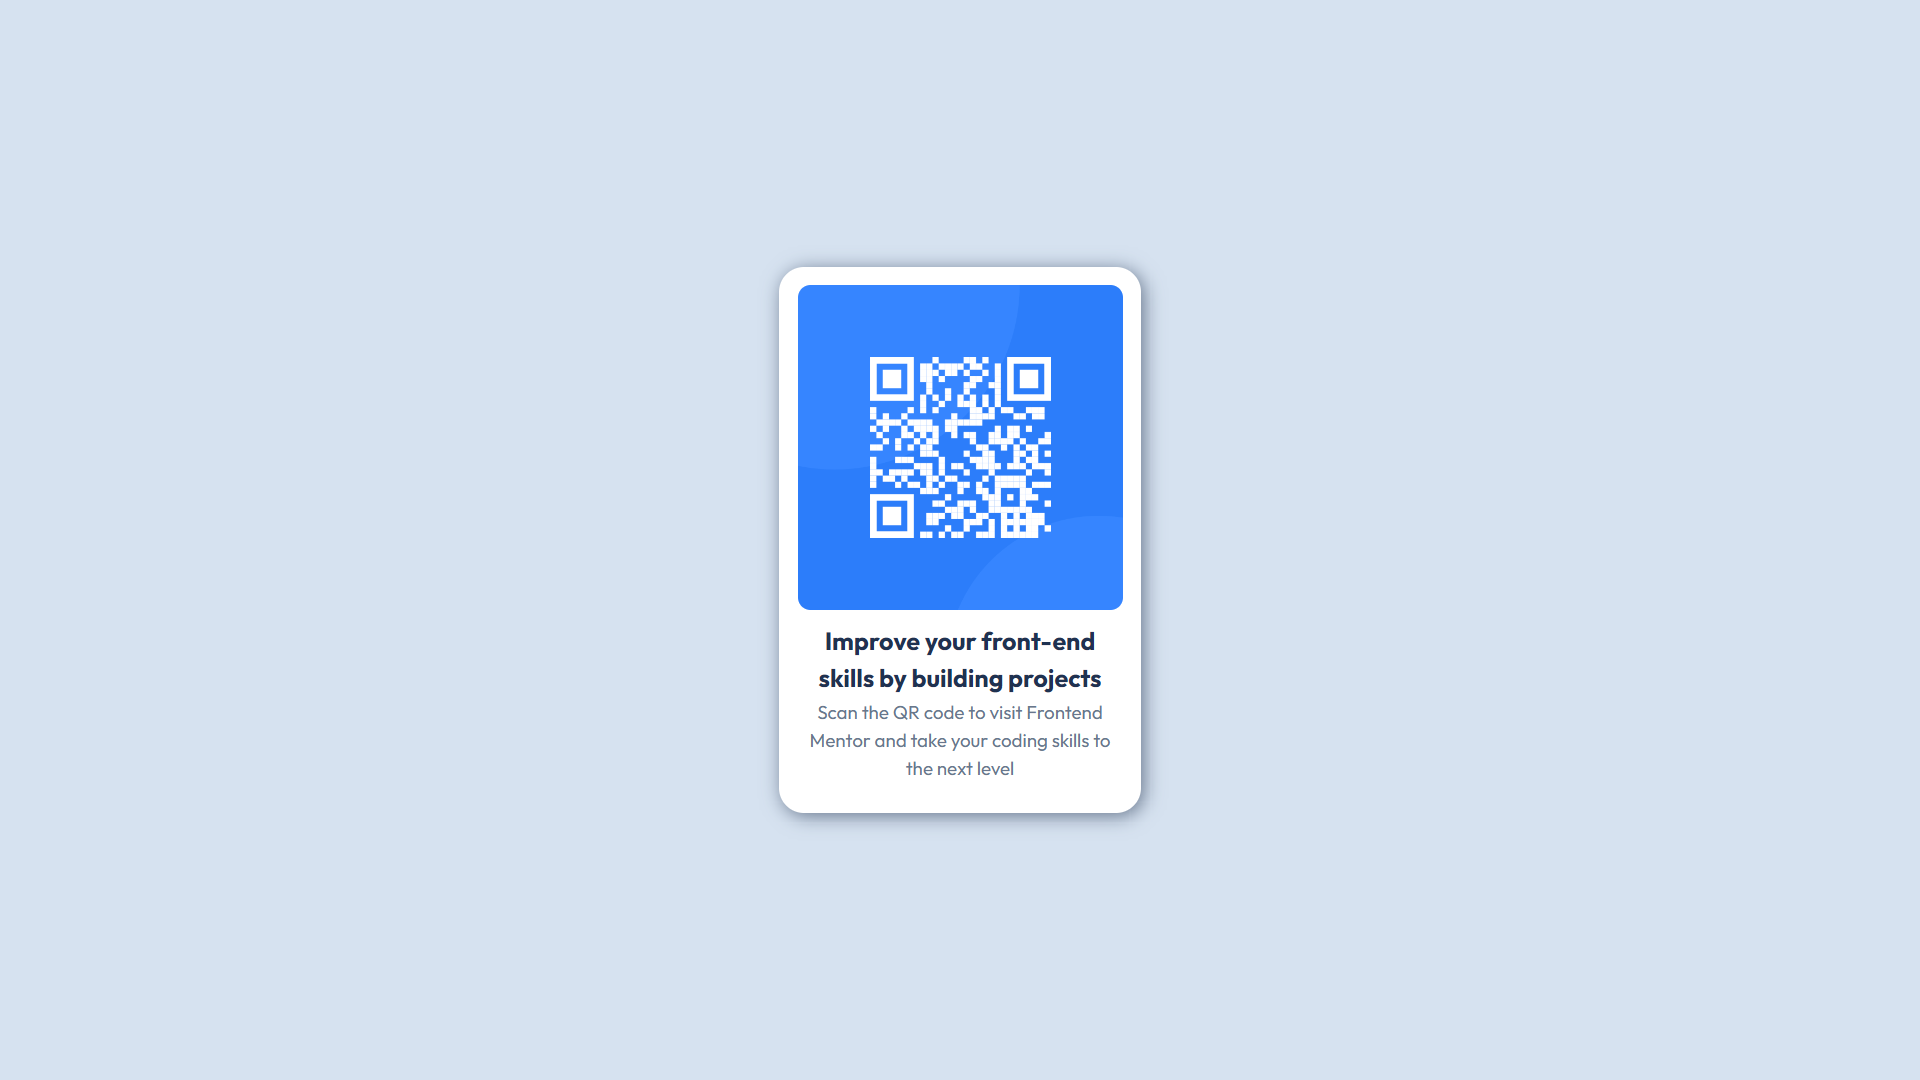
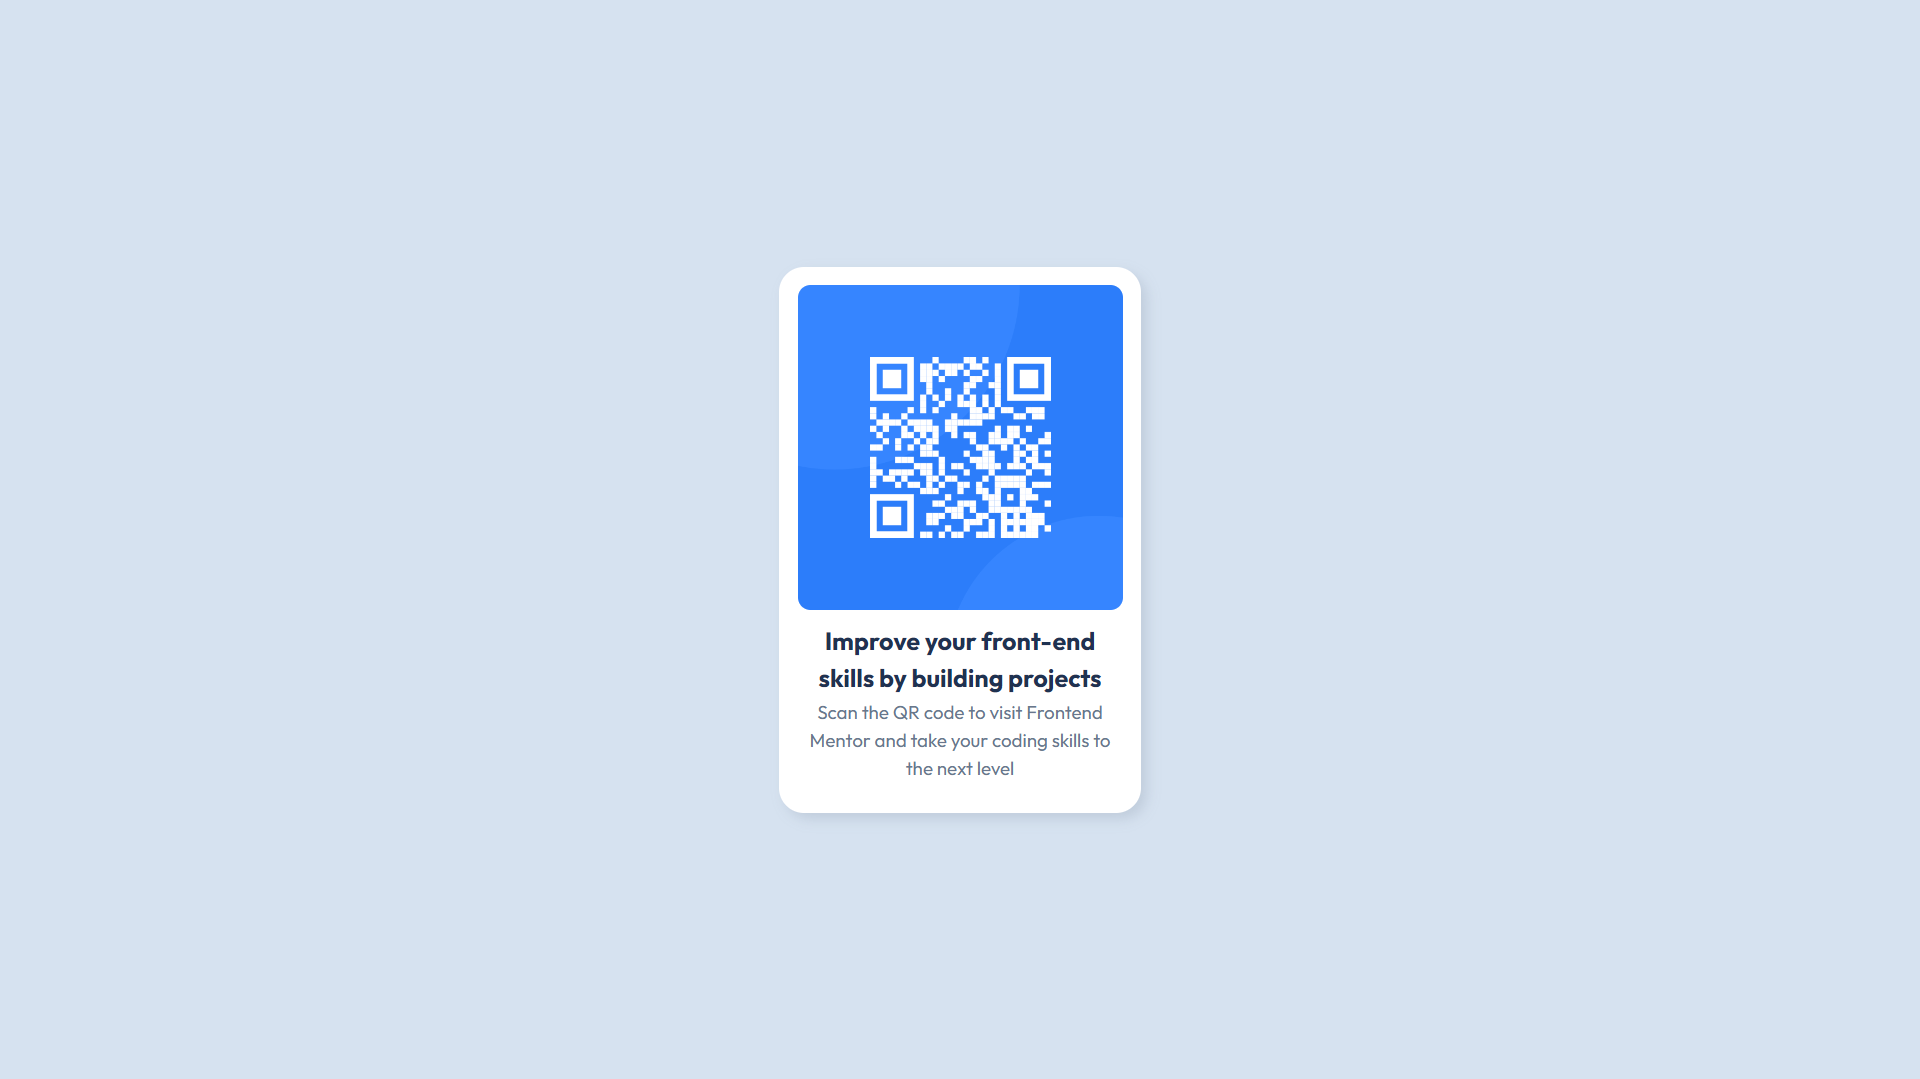
Made softer shadow

diff --git a/style.css b/style.css
@@ -26,7 +26,7 @@ body {
     margin-right: auto;
     padding: 5px;
     border-radius: 20px;
-    box-shadow: 2px 2px 15px var(--slate-500);
+    box-shadow: 5px 5px 10px hsla(216, 15%, 48%, 20%);
 }
 
 .card-content {
